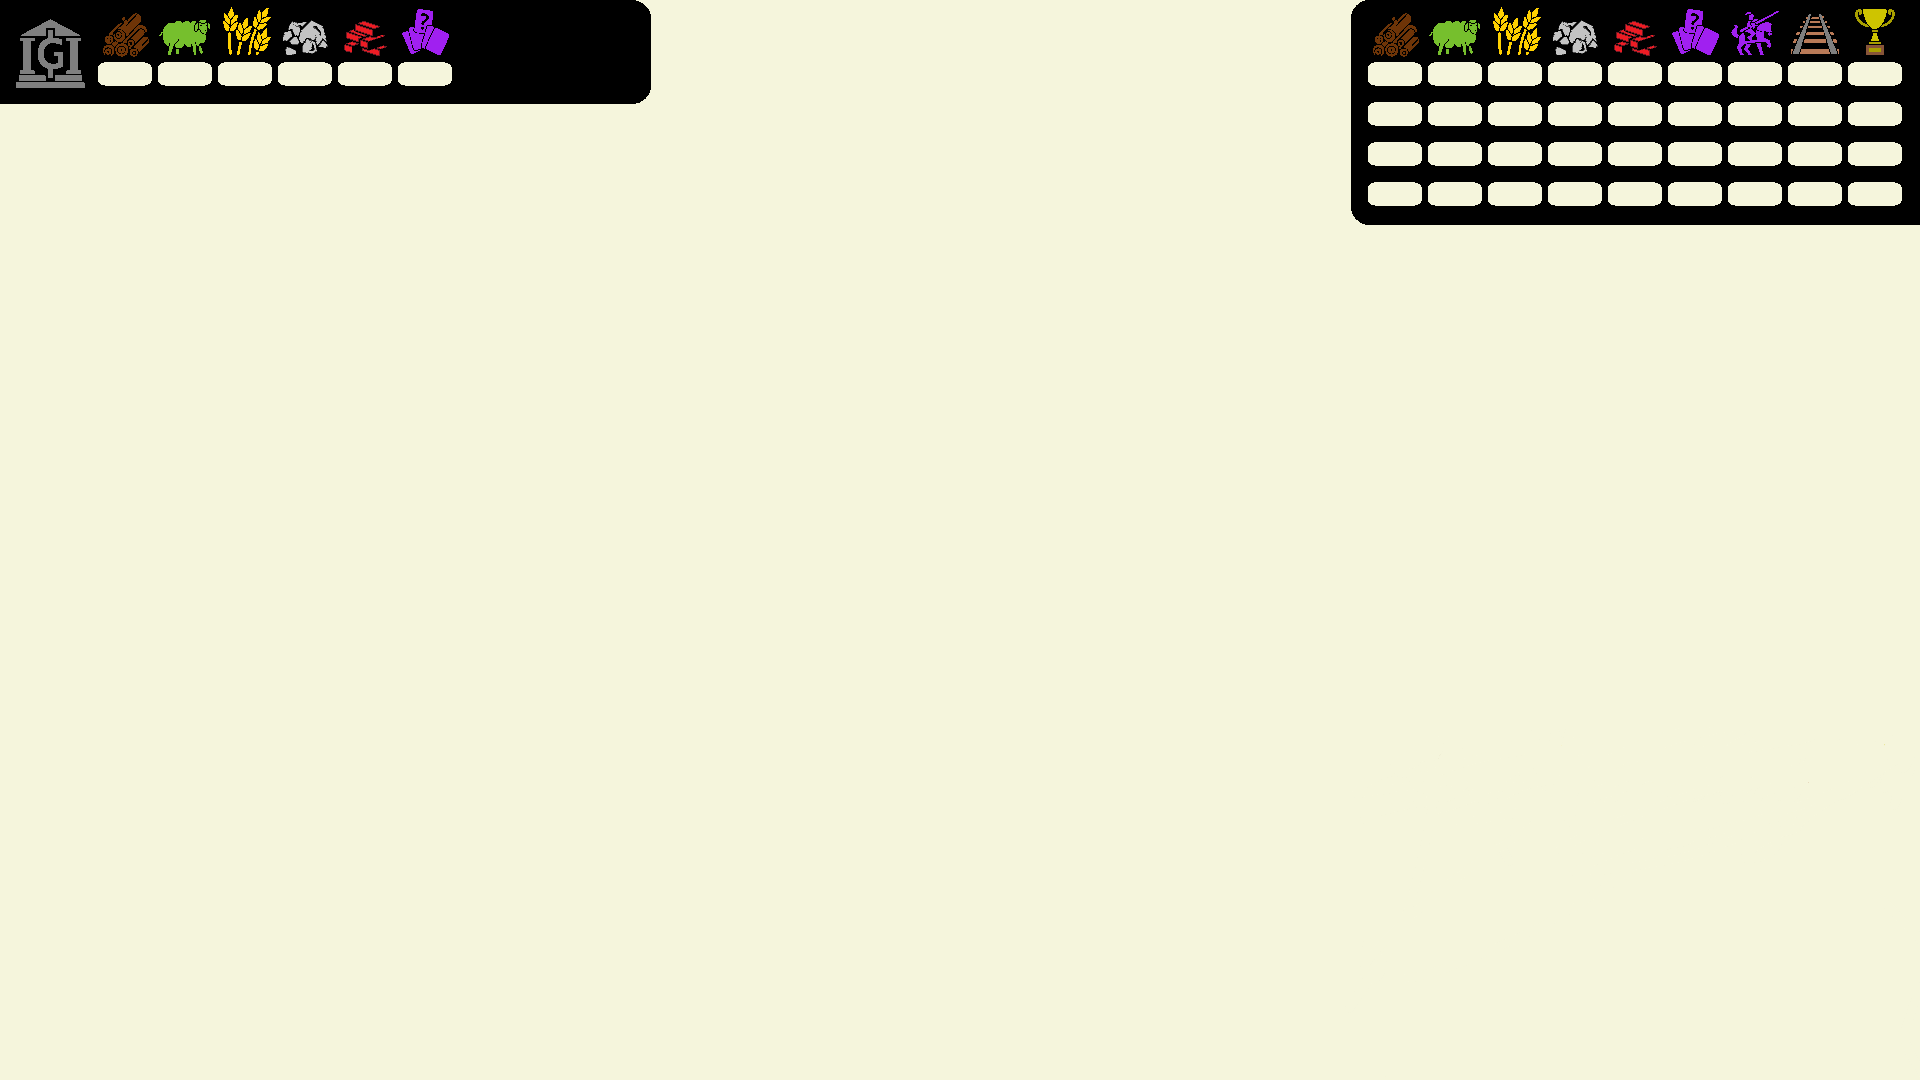
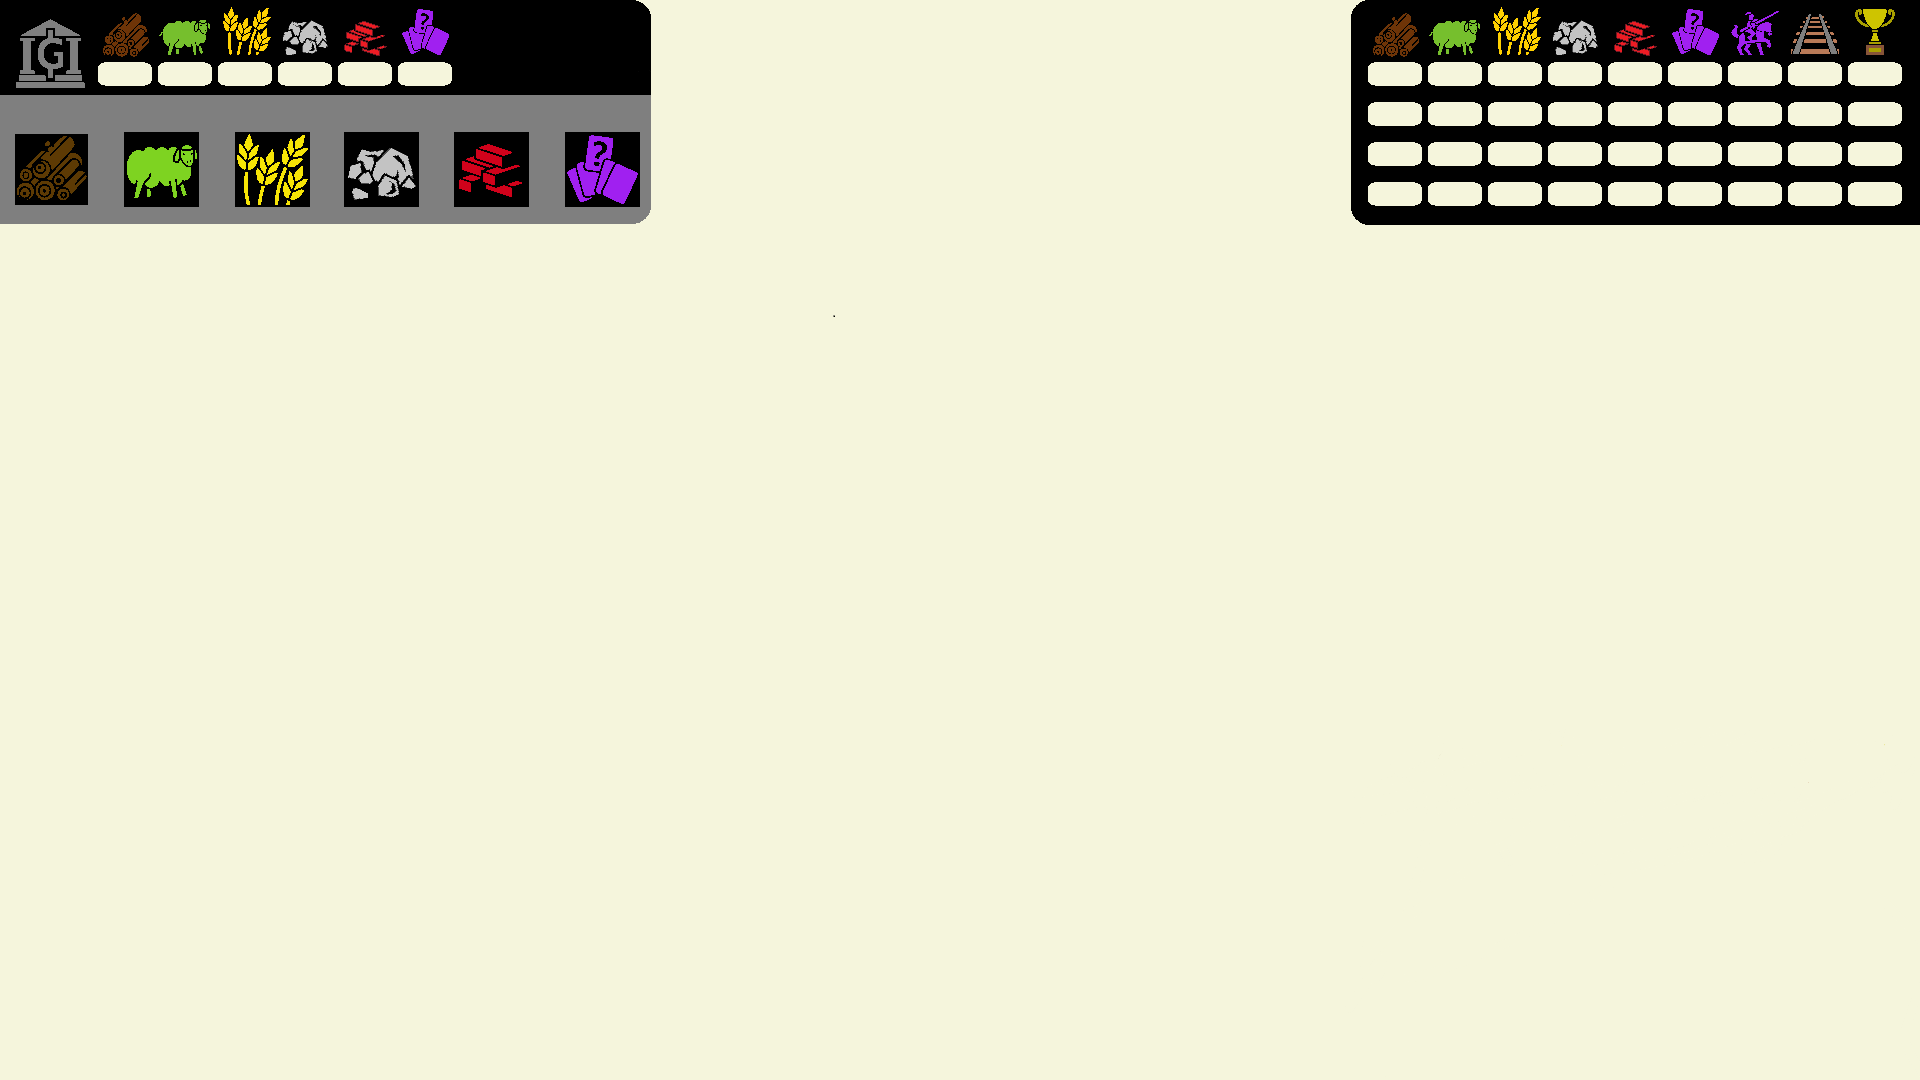
Updated UI to include bank trading

Changed region(s): [[0.0, 0.0611, 0.3438, 0.2139]]

diff --git a/main.py b/main.py
@@ -62,8 +62,7 @@ def play():
     road_positions = ROAD_POSITIONS.copy()
 
     new_game = Game(player_names)
-    game_state = "initial house placements P1"
-
+    game_state = "default" #"initial house placements P1"
 
     # Game loop
     while run:
@@ -77,7 +76,7 @@ def play():
         mos_pos = pygame.mouse.get_pos()
         # assign current_player
 
-        # this state is for initial placements.
+        # initial HOUSE placements for player 1
         if game_state == "initial house placements P1":
             chosen_house_p1 = None
             for event in pygame.event.get():
@@ -98,6 +97,7 @@ def play():
                             chosen_house_p1 = pos
                             game_state = "initial road placements P1"
 
+        # initial ROAD placements for player 1
         if game_state == "initial road placements P1":
 
             for event in pygame.event.get():
@@ -135,6 +135,7 @@ def play():
                                 new_game.end_turn()
                                 game_state = "initial house placements P2+"
 
+        # initial HOUSE placements for players 2+
         if game_state == "initial house placements P2+":
             chosen_house_P2 = None
             for event in pygame.event.get():
@@ -155,6 +156,7 @@ def play():
                             chosen_house_P2 = pos
                             game_state = "initial road placements P2+"
 
+        # initial ROAD placements for players 2+
         if game_state == "initial road placements P2+":
             for event in pygame.event.get():
                 if event.type == pygame.QUIT:
@@ -185,7 +187,8 @@ def play():
                             road_positions.remove(pos_2)
                             print(current_player.get_name(),
                                   "placed a road from {} to {}".format(start_point, end_point))
-                            if len(current_player.get_roads()) == 2 and current_player is not new_game.get_players()[-1]:
+                            if len(current_player.get_roads()) == 2 and current_player is not new_game.get_players()[
+                                -1]:
                                 new_game.end_turn()
                                 game_state = "initial house placements P2+"
                             elif len(current_player.get_roads()) == 1:
@@ -194,6 +197,7 @@ def play():
                                 new_game.end_turn()
                                 game_state = "initial house placements P1"
 
+        # dice roll game state
         if game_state == "dice roll":
             ROLL_DICE_BUTTON.change_color(mos_pos)
             ROLL_DICE_BUTTON.update(SCREEN)
@@ -210,6 +214,7 @@ def play():
                         new_game.give_resources(current_player)
                         game_state = "default"
 
+        # default game state
         if game_state == "default":
             # loop through each button in the games UI
             for butt in UI_BUTTONS:
@@ -234,6 +239,7 @@ def play():
                         print(current_player.get_name(), "wants to place a ROAD")
                         game_state = "place road"
 
+        # implement place house state
         elif game_state == "place house":
             for butt in PLACE_HOUSE_BUTTONS:
                 butt.change_color(mos_pos)
@@ -267,6 +273,7 @@ def play():
 
                             # remove the pos from the list
                             house_positions.remove(pos)
+
         # implement place road state
         elif game_state == "place road":
             for butt in PLACE_ROAD_BUTTONS:
@@ -298,8 +305,8 @@ def play():
                         buffer_radius = 15
 
                         # Check if the mouse position is within the buffer zone
-                        if (mos_pos[0] - center[0]) ** 2 + (mos_pos[1] - center[1]) ** 2 <= buffer_radius ** 2\
-                                and current_player.is_valid_road_placement(pos)\
+                        if (mos_pos[0] - center[0]) ** 2 + (mos_pos[1] - center[1]) ** 2 <= buffer_radius ** 2 \
+                                and current_player.is_valid_road_placement(pos) \
                                 and current_player.has_enough_resources('road'):
                             # Add the road to the player's list of roads
                             print(current_player.get_name(),
@@ -310,12 +317,11 @@ def play():
                             road_positions.remove(pos)
                             ROAD_POSITIONS.remove(pos)
 
-
-
         # updates the board state
         new_game.update_state(SCREEN)
         new_game.draw_house(SCREEN)
         current_player.draw_dice(SCREEN)
+        new_game.draw_player_bank_ratios(SCREEN, current_player)
 
         # Update the screen
         pygame.display.update()

diff --git a/catan/constants.py b/catan/constants.py
@@ -98,7 +98,28 @@ BACK_BUTTON = button.Button(image=MENU_BUTTON, pos=(185, 916.5), text_input="Bac
 ROLL_DICE_BUTTON = button.Button(image=MENU_BUTTON, pos=(185, 1025.5), text_input="Roll Dice", font=NUMBER_FONT,
                                  base_color=BLACK, hovering_color=WHITE)
 
-UI_BUTTONS = [END_TURN_BUTTON, PLACE_HOUSE_BUTTON, PLACE_ROAD_BUTTON]
+# bank assets
+SHEEP_IMAGE = pygame.image.load("assets/UI/bank buttons/sheep.png")
+WHEAT_IMAGE = pygame.image.load("assets/UI/bank buttons/wheat.png")
+WOOD_IMAGE = pygame.image.load("assets/UI/bank buttons/wood.png")
+ORE_IMAGE = pygame.image.load("assets/UI/bank buttons/ore.png")
+BRICK_IMAGE = pygame.image.load("assets/UI/bank buttons/bricks.png")
+DEV_IMAGE = pygame.image.load("assets/UI/bank buttons/dev.png")
+# bank buttons
+SHEEP_BUTTON = button.Button(image=SHEEP_IMAGE, pos=(161, 169), text_input="", font=NUMBER_FONT,
+                                base_color=BLACK, hovering_color=WHITE, border=True,border_width=5, border_color=(127, 127, 127))
+WHEAT_BUTTON = button.Button(image=WHEAT_IMAGE, pos=(272, 169), text_input="", font=NUMBER_FONT,
+                                base_color=BLACK, hovering_color=WHITE, border=True,border_width=5, border_color=(127, 127, 127))
+WOOD_BUTTON = button.Button(image=WOOD_IMAGE, pos=(51, 169), text_input="", font=NUMBER_FONT,
+                                base_color=BLACK, hovering_color=WHITE, border=True,border_width=5, border_color=(127, 127, 127))
+ORE_BUTTON = button.Button(image=ORE_IMAGE, pos=(381, 169), text_input="", font=NUMBER_FONT,
+                                base_color=BLACK, hovering_color=WHITE, border=True,border_width=5, border_color=(127, 127, 127))
+BRICK_BUTTON = button.Button(image=BRICK_IMAGE, pos=(491, 169), text_input="", font=NUMBER_FONT,
+                                base_color=BLACK, hovering_color=WHITE, border=True,border_width=5, border_color=(127, 127, 127))
+DEV_BUTTON = button.Button(image=DEV_IMAGE, pos=(602, 169), text_input="", font=NUMBER_FONT,
+                                base_color=BLACK, hovering_color=WHITE, border=True,border_width=5, border_color=(127, 127, 127))
+
+UI_BUTTONS = [END_TURN_BUTTON, PLACE_HOUSE_BUTTON, PLACE_ROAD_BUTTON, SHEEP_BUTTON, WHEAT_BUTTON, WOOD_BUTTON, ORE_BUTTON, BRICK_BUTTON, DEV_BUTTON]
 PLACE_HOUSE_BUTTONS = [END_TURN_BUTTON, BACK_BUTTON]
 PLACE_ROAD_BUTTONS = [BACK_BUTTON, END_TURN_BUTTON]
 

diff --git a/catan/game.py b/catan/game.py
@@ -1,6 +1,6 @@
 import pygame, math
 from catan import HOUSE_POSITIONS, MOUSE_BUFFER, board, player, COLOR_LIST, UI_BUTTONS, PLACE_HOUSE_BUTTON, \
-    END_TURN_BUTTON, PLACE_ROAD_BUTTON, NUMBER_FONT, BLACK, bank, HOUSE_TILE_CHECK
+    END_TURN_BUTTON, PLACE_ROAD_BUTTON, NUMBER_FONT, BLACK, bank, HOUSE_TILE_CHECK, BANK_NUMBER_FONT
 
 
 class Game:
@@ -102,6 +102,34 @@ class Game:
             elif current_player == self.players[3]:
                 current_player.draw_player_name(screen, 194)
                 current_player.draw_resources(screen, 194)
+
+    def draw_player_bank_ratios(self, screen, current_player):
+        ratios = current_player.get_trade_ratios()
+        for resource_type, ratio in ratios.items():
+            if resource_type == 'forest':
+                ratio_image = NUMBER_FONT.render("{}:1".format(ratio[0]), True, BLACK)
+                ratio_rect = ratio_image.get_rect(center=(51, 115))
+                screen.blit(ratio_image, ratio_rect)
+            elif resource_type == 'pasture':
+                ratio_image = NUMBER_FONT.render("{}:1".format(ratio[0]), True, BLACK)
+                ratio_rect = ratio_image.get_rect(center=(161, 115))
+                screen.blit(ratio_image, ratio_rect)
+            elif resource_type == 'fields':
+                ratio_image = NUMBER_FONT.render("{}:1".format(ratio[0]), True, BLACK)
+                ratio_rect = ratio_image.get_rect(center=(272, 115))
+                screen.blit(ratio_image, ratio_rect)
+            elif resource_type == 'mountains':
+                ratio_image = NUMBER_FONT.render("{}:1".format(ratio[0]), True, BLACK)
+                ratio_rect = ratio_image.get_rect(center=(381, 115))
+                screen.blit(ratio_image, ratio_rect)
+            elif resource_type == 'hills':
+                ratio_image = NUMBER_FONT.render("{}:1".format(ratio[0]), True, BLACK)
+                ratio_rect = ratio_image.get_rect(center=(491, 115))
+                screen.blit(ratio_image, ratio_rect)
+        dev_image = BANK_NUMBER_FONT.render("DEV CARD", True, BLACK)
+        dev_rect = dev_image.get_rect(center=(602, 115))
+        screen.blit(dev_image, dev_rect)
+
 
     def ui_Messages(self, screen, game_state, current_player):
         if game_state == 'default' or game_state == 'dice roll':

diff --git a/catan/button.py b/catan/button.py
@@ -1,5 +1,9 @@
+import pygame
+
+
 class Button:
-    def __init__(self, image, pos, text_input, font, base_color, hovering_color):
+    def __init__(self, image, pos, text_input, font, base_color, hovering_color, border=False, border_width=0,
+                 border_color=None):
         self.image = image
         self.x_pos = pos[0]
         self.y_pos = pos[1]
@@ -11,8 +15,15 @@ class Button:
             self.image = self.text
         self.rect = self.image.get_rect(center=(self.x_pos, self.y_pos))
         self.text_rect = self.text.get_rect(center=(self.x_pos, self.y_pos))
+        self.border = border
+        self.border_width = border_width
+        self.border_color = border_color if border_color is not None else (255, 255, 255)
+        self.og_border_color = border_color
 
     def update(self, screen):
+        if self.border:
+            border_rect = self.rect.inflate(self.border_width * 2, self.border_width * 2)
+            pygame.draw.rect(screen, self.border_color, border_rect, self.border_width)
         if self.image is not None:
             screen.blit(self.image, self.rect)
         screen.blit(self.text, self.text_rect)
@@ -27,5 +38,9 @@ class Button:
         if position[0] in range(self.rect.left, self.rect.right) and position[1] in range(self.rect.top,
                                                                                           self.rect.bottom):
             self.text = self.font.render(self.text_input, True, self.hovering_color)
+            if self.border:
+                self.border_color = self.hovering_color
+
         else:
             self.text = self.font.render(self.text_input, True, self.base_color)
+            self.border_color = self.og_border_color

diff --git a/catan/player.py b/catan/player.py
@@ -18,9 +18,16 @@ class Player:
         self.roads = []
         self.robbers = 0
         self.dice_roll = [1, 1]
+        self.trade_ratios = {'forest': (4, 1), 'hills': (4, 1), 'pasture': (4, 1), 'fields': (4, 1), 'mountains': (4, 1)}
 
     def get_name(self):
         return self.name
+
+    def get_trade_ratios(self):
+        return self.trade_ratios
+
+    def update_trade_ratios(self, resource_type, ratio):
+        self.trade_ratios[resource_type] = ratio
 
     def has_won(self):
         if self.victory_points >= VIC_POINT_THRESHOLD:
@@ -138,8 +145,8 @@ class Player:
     def draw_dice(self, screen):
         dice_1 = pygame.image.load("assets/UI/dice/{}.png".format(self.dice_roll[0]))
         dice_2 = pygame.image.load("assets/UI/dice/{}.png".format(self.dice_roll[1]))
-        dice_1_rect = dice_1.get_rect(center=(508, 53))
-        dice_2_rect = dice_2.get_rect(center=(593, 53))
+        dice_1_rect = dice_1.get_rect(center=(508, 47))
+        dice_2_rect = dice_2.get_rect(center=(593, 47))
         screen.blit(dice_1, dice_1_rect)
         screen.blit(dice_2, dice_2_rect)
 
